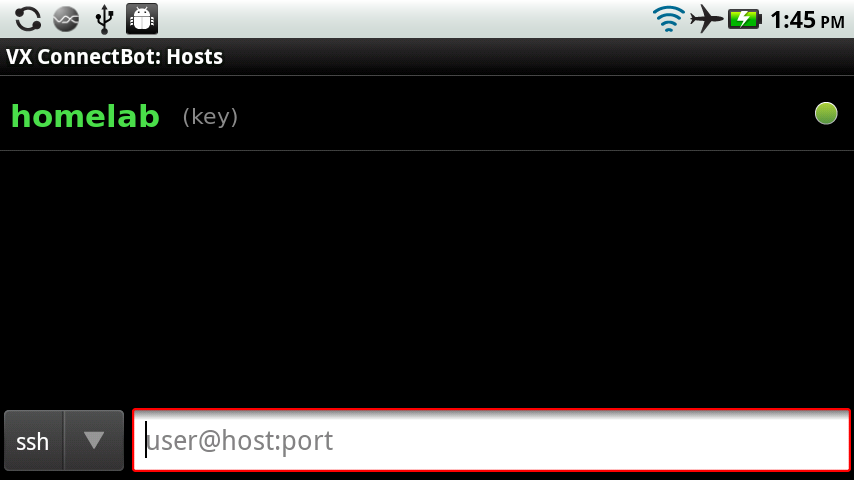
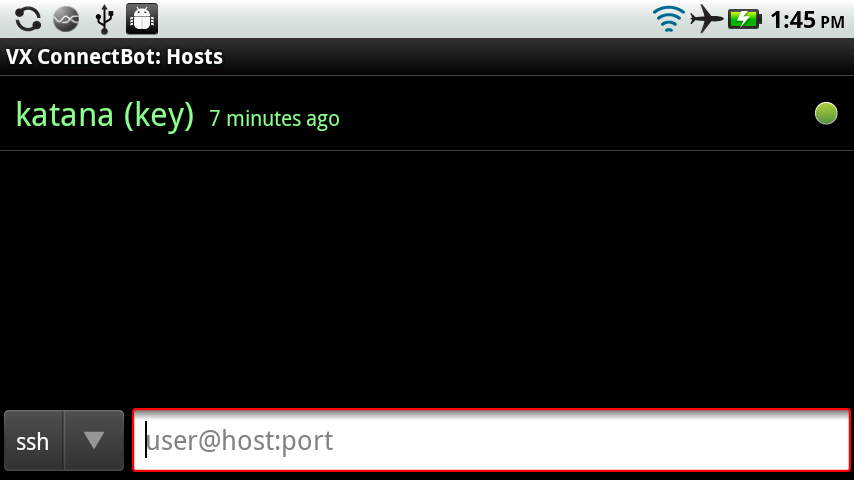
fix: stop claiming to redact hostnames — the photos show them, and names aren't the leak class
Swaps the redacted host-list screenshot for the real one (consistent with the
hero photo) and rewrites the caption: hostnames/session names are shown as-is;
the line held is no IPs, Wi-Fi names, or keys on screen. Honest > tidy.

Changed region(s): [[0.0, 0.2188, 0.3958, 0.2812]]

diff --git a/index.html b/index.html
@@ -190,8 +190,10 @@ footer a{color:var(--dim)}
 
 <section id="gallery"><div class="wrap">
   <h2><span class="n">03</span>Actual hardware</h2>
-  <p class="lead">Screenshots pulled straight off the device's framebuffer. Hostnames redacted,
-    because this page is public and the terminal on the other end is not.</p>
+  <p class="lead">Straight off the device's framebuffer and phone camera, shown as-is. Hostnames
+    and session names are left in — they're names, not credentials, and useless to anyone who isn't
+    already inside the network. What you won't find on screen: internal IPs, Wi-Fi names, or keys.
+    That's the line worth holding; the rest is just a machine called what it's called.</p>
   <div class="shots">
     <figure class="shot" style="flex-basis:100%">
       <img src="assets/photo-desk.jpg" alt="The Droid 2 resting on a desk mat beside a mechanical keyboard with a glowing penguin keycap, a vertical mouse, an audio interface and a macropad">
